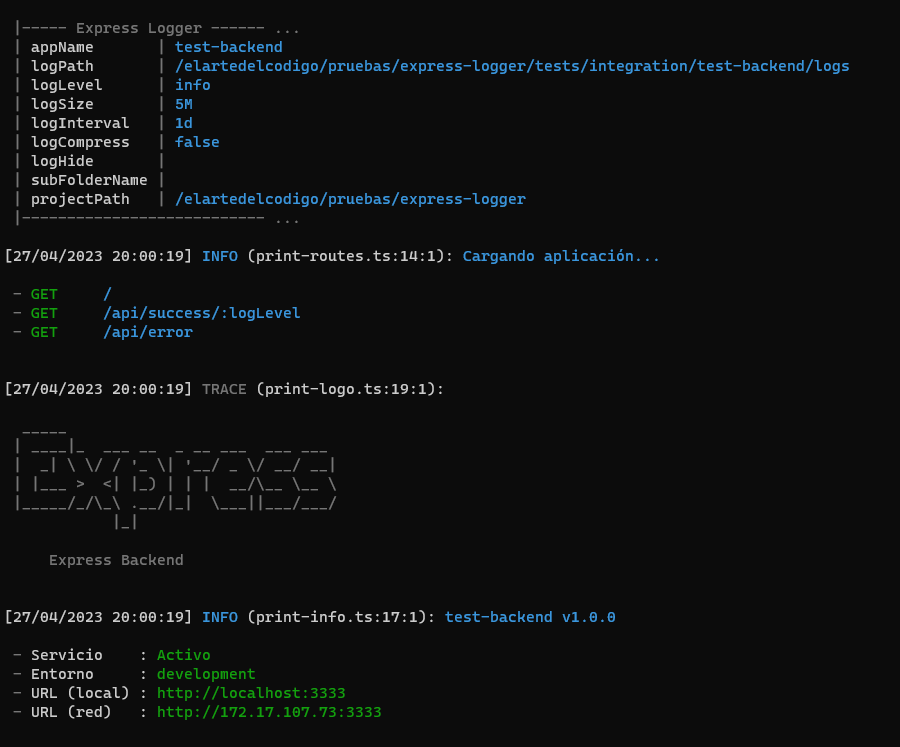
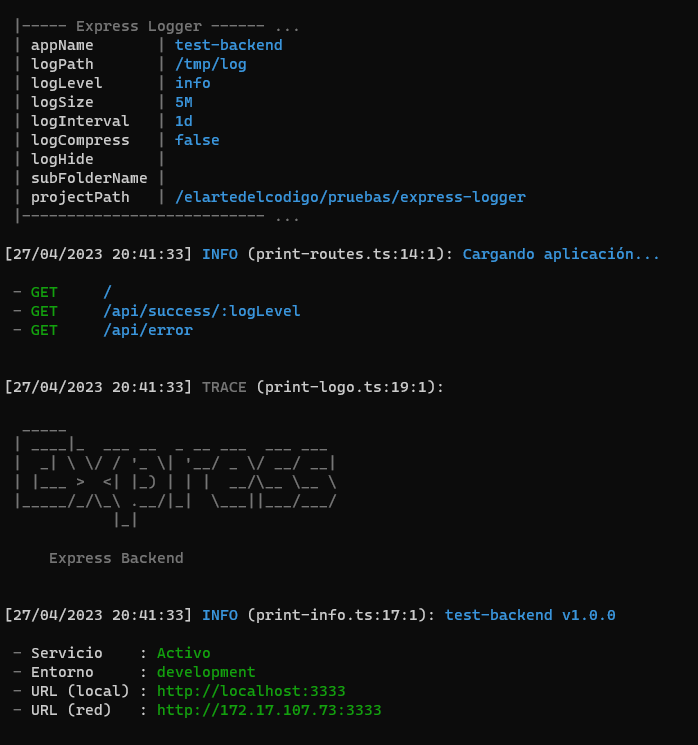
docs: :memo: ejemplo actualizado

diff --git a/README.md b/README.md
@@ -56,14 +56,13 @@ Archivo `server.ts`
 ```ts
 import express, { NextFunction, Request, Response } from 'express'
 import { ExpressLogger, printLogo, printInfo, printRoutes } from '@elartedelcodigo/express-logger'
-import path from 'path'
 import router from './src/routes/application'
 
 export const app = express()
 
 ExpressLogger.initialize(app, {
   appName: 'test-backend',
-  logPath: path.resolve(__dirname, './logs'),
+  logPath: '/tmp/log',
 })
 
 const logger = ExpressLogger.getInstance()
@@ -115,26 +114,22 @@ Resultado 3:
 Se habrán creado los siguientes archivos: `error.log`, `info.log` y `warn.log`.
 
 ```txt
-app
-  ├─ logs
-  │     └─ test-backend
-  │           ├─ error.log
-  │           ├─ info.log
-  │           └─ warn.log
-  ├─ src
-  │     └─ routes
-  │           └─ application.ts
-  └─ server.ts
+/tmp
+  ├─ log
+        └─ test-backend
+              ├─ error.log
+              ├─ info.log
+              └─ warn.log
 ```
 
 Contenido del archivo: `info.log`
 
 ```json
-{"level":30,"time":"2023-04-28T00:00:19.333Z","pid":18997,"hostname":"server","name":"test-backend","context":"print-routes.ts:14:1","msg":"Cargando aplicación..."}
-{"level":30,"time":"2023-04-28T00:00:19.338Z","pid":18997,"hostname":"server","name":"test-backend","context":"print-info.ts:17:1","msg":"test-backend v1.0.0"}
-{"level":30,"time":"2023-04-28T00:00:21.368Z","pid":18997,"hostname":"server","name":"test-backend","reqId":"ab168a50-e557-11ed-ba91-5504bd57ef63","context":"server.ts:22:1","msg":"ok"}
-{"level":30,"time":"2023-04-28T00:00:21.372Z","pid":18997,"hostname":"server","name":"test-backend","request":{"id":"ab168a50-e557-11ed-ba91-5504bd57ef63","method":"GET","url":"/"},"response":{"statusCode":200},"response time [ms]":6,"msg":"Petición concluida - 200"}
-{"level":30,"time":"2023-04-28T00:00:22.387Z","pid":18997,"hostname":"server","name":"test-backend","reqId":"abb1dff0-e557-11ed-ba91-5504bd57ef63","context":"application.ts:9:3","msg":"Mensaje de tipo info"}
+{"level":30,"time":"2023-04-28T00:41:33.936Z","pid":21195,"hostname":"server","name":"test-backend","context":"print-routes.ts:14:1","msg":"Cargando aplicación..."}
+{"level":30,"time":"2023-04-28T00:41:33.941Z","pid":21195,"hostname":"server","name":"test-backend","context":"print-info.ts:17:1","msg":"test-backend v1.0.0"}
+{"level":30,"time":"2023-04-28T00:41:35.974Z","pid":21195,"hostname":"server","name":"test-backend","reqId":"6e117330-e55d-11ed-ae62-f1c38d6314d3","context":"server.ts:21:1","msg":"ok"}
+{"level":30,"time":"2023-04-28T00:41:35.977Z","pid":21195,"hostname":"server","name":"test-backend","request":{"id":"6e117330-e55d-11ed-ae62-f1c38d6314d3","method":"GET","url":"/"},"response":{"statusCode":200},"response time [ms]":5,"msg":"Petición concluida - 200"}
+{"level":30,"time":"2023-04-28T00:41:36.988Z","pid":21195,"hostname":"server","name":"test-backend","reqId":"6eac53a0-e55d-11ed-ae62-f1c38d6314d3","context":"application.ts:9:3","msg":"Mensaje de tipo info"}
 ...
 ```
 
